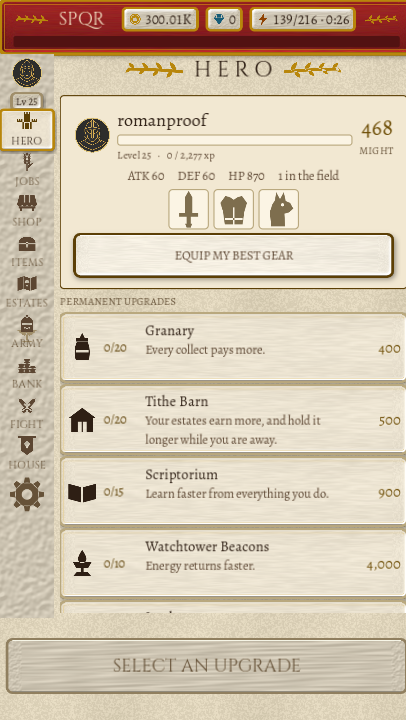
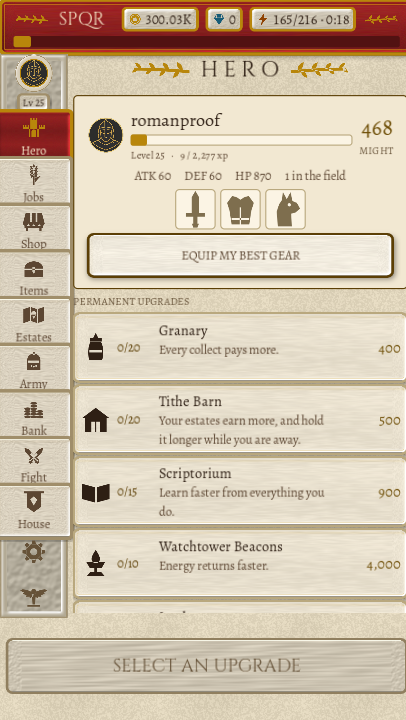
Set the rail's nine sections into the column as carved plates
It was a strip of stone with small capitals down it, and it did not look like
the reference at all. Four things were wrong, in the order they mattered:

  Every entry is its own plate now, with marble showing between them. Flush
  buttons with no gap read as one strip with lines drawn on it.

  The open section is an imperial plate -- deep red, gold-framed, gold icon,
  light ink -- where it was a lit parchment slab among flat buttons. That says
  "this is the room you are standing in"; the slab said "highlighted".

  Plates are separated from the column by VALUE, not by outline: the ground is
  cut from stone at 0.86 and the plates from stone at 1.07. Separation that
  costs no height, which gaps and shadows do, and the vertical budget here has
  none to spare. A plate you have to find by its border is a plate you cannot
  see at a glance.

  Labels are mixed case in the body serif at F_CAPTION, and the icon is the
  loudest thing on the plate. Small capitals at F_MICRO under a 40-unit icon
  read as a legend under a diagram.

The portrait gets the carved collar it was always supposed to have, with a gold
bead on the inner lip. Its middle is genuinely transparent, so a face shows
through the hole rather than being clipped to it.

Two bugs found on the way, both mine:

  The rail's host was a PanelContainer, and a Container lays its children out
  itself and ignores their anchors. The marble, the carved edge and the eagle
[…]

Changed region(s): [[0.0, 0.0306, 0.8571, 0.8556], [0.3251, 0.0611, 0.8571, 0.1222], [0.8276, 0.0, 0.8571, 0.0306]]

diff --git a/scripts/gen-ui-skin.py b/scripts/gen-ui-skin.py
@@ -113,7 +113,7 @@ def parchment_tile(size: int, base: str, dest: pathlib.Path) -> None:
         "-define", "compose:args=4", "-composite", dest)
 
 
-def marble_tile(size: int, dest: pathlib.Path) -> None:
+def marble_tile(size: int, dest: pathlib.Path, base: str = RAIL) -> None:
     """Marble: random noise blurred into veins, then lit as a relief.
 
     -virtual-pixel tile before the blur is the whole trick for seamlessness --
@@ -122,7 +122,7 @@ def marble_tile(size: int, dest: pathlib.Path) -> None:
     run("-size", f"{size}x{size}", "xc:", "+noise", "Random",
         "-virtual-pixel", "tile", "-blur", "0x3",
         "-shade", "118x22", "-normalize", t("veins"))
-    run("-size", f"{size}x{size}", f"xc:{RAIL}", t("flat"))
+    run("-size", f"{size}x{size}", f"xc:{base}", t("flat"))
     # Blended at 14%, not composited at full strength. Stone in a UI has to be
     # legible as a SURFACE and invisible as a pattern -- at full strength the
     # veining competes with the labels sitting on it.
@@ -160,7 +160,8 @@ def plate(name: str, geom: dict, body: str, *, texture: pathlib.Path | None = No
           gradient: tuple[str, str] | None = None,
           frame: str = GOLD, frame_px: int = 3,
           double_rule: bool = True, carve: bool = True, sunk: bool = False,
-          shadow: bool = True, dest: pathlib.Path | None = None) -> None:
+          shadow: bool = True, carve_strength: int = 72,
+          dest: pathlib.Path | None = None) -> None:
     """One nine-slice surface: shadow, material, carved frame, rules.
 
     Ornament goes in the CORNERS and nowhere else. A nine-slice never stretches
@@ -199,7 +200,7 @@ def plate(name: str, geom: dict, body: str, *, texture: pathlib.Path | None = No
                       "-fill", "none", "-draw", shape],
                t("rel"), blur=2.6, azimuth=315 if sunk else 135)
         run(str(t("b")), str(t("rel")), "-compose", "Overlay",
-            "-define", "compose:args=72", "-composite",
+            "-define", f"compose:args={carve_strength}", "-composite",
             str(t("mask")), "-alpha", "off", "-compose", "CopyOpacity", "-composite", t("b"))
 
     # 4. the frame, and the thin second rule inside it that says "made"
@@ -222,6 +223,84 @@ def plate(name: str, geom: dict, body: str, *, texture: pathlib.Path | None = No
     print("  %-16s %s" % (name, out.relative_to(ROOT)))
 
 
+def _disc(cx: float, cy: float, r: float) -> str:
+    """ImageMagick's `circle` takes a CENTRE and a point ON the perimeter, not a
+    radius. Passing the radius as that second coordinate draws a circle of
+    radius |cy - r| -- which for a ring of radius 95 in a 192 box came out as a
+    dot two pixels across. This is the conversion, written once."""
+    return f"circle {cx:.2f},{cy:.2f} {cx:.2f},{cy - r:.2f}"
+
+
+def _cut_alpha(size: int, keep: list[str], drop: list[str], dest: pathlib.Path) -> None:
+    """An alpha channel drawn as greyscale: white is kept, black is cut away.
+
+    -fill none -draw simply draws nothing, which is why the first attempt at a
+    hollow frame came out solid. Building the mask as a grey image and copying
+    it into the alpha is the operation that actually removes pixels.
+    """
+    run("-size", f"{size}x{size}", "xc:black", "-fill", "white", *keep,
+        "-fill", "black", *drop, dest)
+
+
+def portrait_ring(size: int, dest: pathlib.Path) -> None:
+    """The carved stone collar around the player's portrait, with a gold bead.
+
+    A circle cannot be nine-sliced, so this is a plain texture drawn at 2x the
+    slot it fills and laid over the avatar button. The hole is genuinely
+    transparent -- the portrait shows through it rather than being masked by it,
+    so a face is never clipped by its own frame.
+    """
+    c = size / 2.0
+    outer = c - 2
+    inner = c * 0.68
+    mid = (outer + inner) / 2.0
+
+    _cut_alpha(size, ["-draw", _disc(c, c, outer)], ["-draw", _disc(c, c, inner)], t("ring_a"))
+    # lit as a relief, so it reads as a collar rather than a printed circle
+    relief(size, ["-stroke", "white", "-strokewidth", str(int(outer - inner)),
+                  "-fill", "none", "-draw", _disc(c, c, mid)],
+           t("ring_rel"), blur=size * 0.030)
+    run("-size", f"{size}x{size}", f"xc:{RAIL}", str(t("ring_rel")),
+        "-compose", "Overlay", "-composite", t("ring_body"))
+    run(str(t("ring_body")), str(t("ring_a")), "-alpha", "off",
+        "-compose", "CopyOpacity", "-composite", t("ring_cut"))
+    # a gold bead on the inner lip and a stone one outside
+    run(str(t("ring_cut")), "-fill", "none",
+        "-stroke", GOLD, "-strokewidth", str(max(2, int(size * 0.028))),
+        "-draw", _disc(c, c, inner + size * 0.016),
+        "-stroke", STONE_EDGE, "-strokewidth", str(max(2, int(size * 0.020))),
+        "-draw", _disc(c, c, outer - size * 0.012),
+        str(dest))
+    print("  %-16s %s" % ("portrait_ring", dest.relative_to(ROOT)))
+
+
+def rail_frame(dest: pathlib.Path) -> None:
+    """The rail's carved edge: a nine-slice whose centre is genuinely empty.
+
+    Only the border is drawn, so the marble tiling underneath shows through the
+    middle and the frame stretches to any height without smearing the stone.
+    """
+    size = 128
+    lo, hi = 1, size - 2
+    band = 11
+    _cut_alpha(size,
+               ["-draw", f"rectangle {lo},{lo} {hi},{hi}"],
+               ["-draw", f"rectangle {lo + band},{lo + band} {hi - band},{hi - band}"],
+               t("rf_a"))
+    relief(size, ["-stroke", "white", "-strokewidth", str(band),
+                  "-fill", "none",
+                  "-draw", f"rectangle {lo + band // 2},{lo + band // 2} "
+                           f"{hi - band // 2},{hi - band // 2}"],
+           t("rf_rel"), blur=3.0)
+    run("-size", f"{size}x{size}", f"xc:{shade_hex(RAIL, 0.86)}", str(t("rf_rel")),
+        "-compose", "Overlay", "-define", "compose:args=85", "-composite", t("rf_body"))
+    run(str(t("rf_body")), str(t("rf_a")), "-alpha", "off",
+        "-compose", "CopyOpacity", "-composite",
+        "-fill", "none", "-stroke", STONE_EDGE, "-strokewidth", "2",
+        "-draw", f"rectangle {lo},{lo} {hi},{hi}", str(dest))
+    print("  %-16s %s" % ("rail_frame", dest.relative_to(ROOT)))
+
+
 def main() -> int:
     if shutil.which("magick") is None:
         print("ImageMagick is not on PATH", file=sys.stderr)
@@ -234,6 +313,11 @@ def main() -> int:
     parchment_tile(256, PANEL_HIGH, t("parch_high"))
     parchment_tile(256, BG, t("parch_bg"))
     marble_tile(256, t("marble"))
+    # Two more stones: the column the rail is cut from, and the plates set into
+    # it. They differ by value rather than by outline, because a plate that has
+    # to be found by its border is a plate you cannot see at a glance.
+    marble_tile(256, t("marble_deep"), shade_hex(RAIL, 0.86))
+    marble_tile(256, t("marble_plate"), shade_hex(RAIL, 1.07))
     fabric(128, shade_hex(BANNER, 1.30), shade_hex(BANNER, 0.72), t("cloth"))
     fabric(128, shade_hex(BANNER, 1.45), shade_hex(BANNER, 0.85), t("cloth_hi"))
     fabric(128, shade_hex(BANNER, 0.80), shade_hex(BANNER, 0.55), t("cloth_lo"))
@@ -243,7 +327,7 @@ def main() -> int:
     # The two grounds, tiled behind everything.
     print("tiles ->", TILE.relative_to(ROOT))
     parchment_tile(256, BG, TILE / "parchment.png")
-    marble_tile(256, TILE / "marble.png")
+    marble_tile(256, TILE / "marble.png", shade_hex(RAIL, 0.86))
     print("  parchment.png, marble.png")
 
     print("surfaces ->", OUT.relative_to(ROOT))
@@ -284,8 +368,19 @@ def main() -> int:
           sunk=True, shadow=False, double_rule=False)
     plate("plaque", SMALL, RAIL, texture=t("marble"), frame=STONE_EDGE, frame_px=2,
           double_rule=False)
+    # A nav entry is its own carved plate, and the open one is an imperial plate.
+    # They were a flat strip and a lit slab; on a marble column that read as a
+    # list of words rather than as nine stones set into it.
+    plate("nav", SMALL, RAIL, texture=t("marble_plate"), frame=STONE_EDGE, frame_px=3,
+          double_rule=False, carve_strength=100)
+    plate("nav_active", SMALL, BANNER, texture=t("cloth"), frame=GOLD, frame_px=3,
+          double_rule=False, carve_strength=100)
     plate("rail_active", SMALL, PANEL, texture=t("parch_panel"), frame=GOLD, frame_px=2,
           double_rule=False)
+
+    print("chrome ->", CHROME.relative_to(ROOT))
+    portrait_ring(192, CHROME / "portrait_ring.png")
+    rail_frame(CHROME / "rail_frame.png")
 
     print("done")
     return 0
